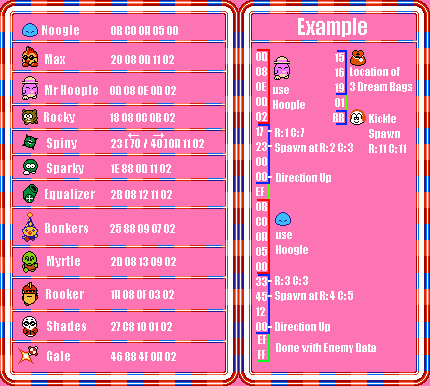
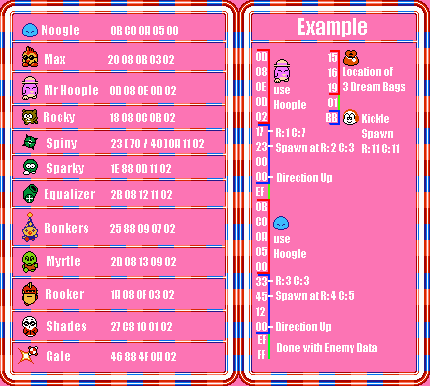
Added second guide for characters

diff --git a/WIP/app/map-selector/map-selector.template.html b/WIP/app/map-selector/map-selector.template.html
@@ -6,7 +6,6 @@
       ng-options="map.name for map in $ctrl.getMapSelection() | filter: $ctrl.currentWorld.filter track by map.file"
       ng-model="$ctrl.currentMap"
 	  ng-change="$ctrl.updateMapSelection()"></select>
-	<br/>
 	<button name="nextButton" ng-click="$ctrl.gotoNext()">Next</button>
 	<button name="prevButton" ng-click="$ctrl.gotoPrev()">Prev</button>
 </div>

diff --git a/WIP/app/tile-editor/tile-editor.template.html b/WIP/app/tile-editor/tile-editor.template.html
@@ -71,5 +71,5 @@
 	<img src="img/guides/tiles.png"></img>
 </span>
 <span style="display: inline-block; vertical-align:top">
-	<!-- <img src="img/guides/characters.png"></img> -->
+	<img src="img/guides/characters.png"></img>
 </span>
